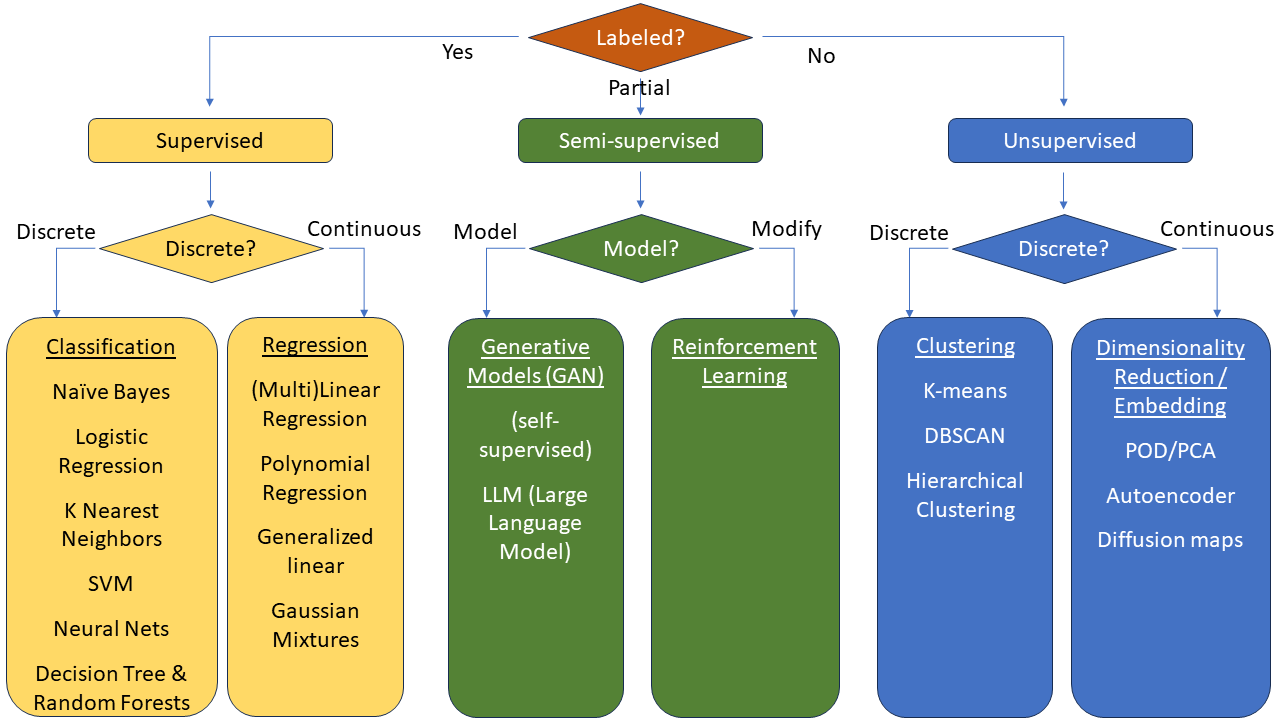
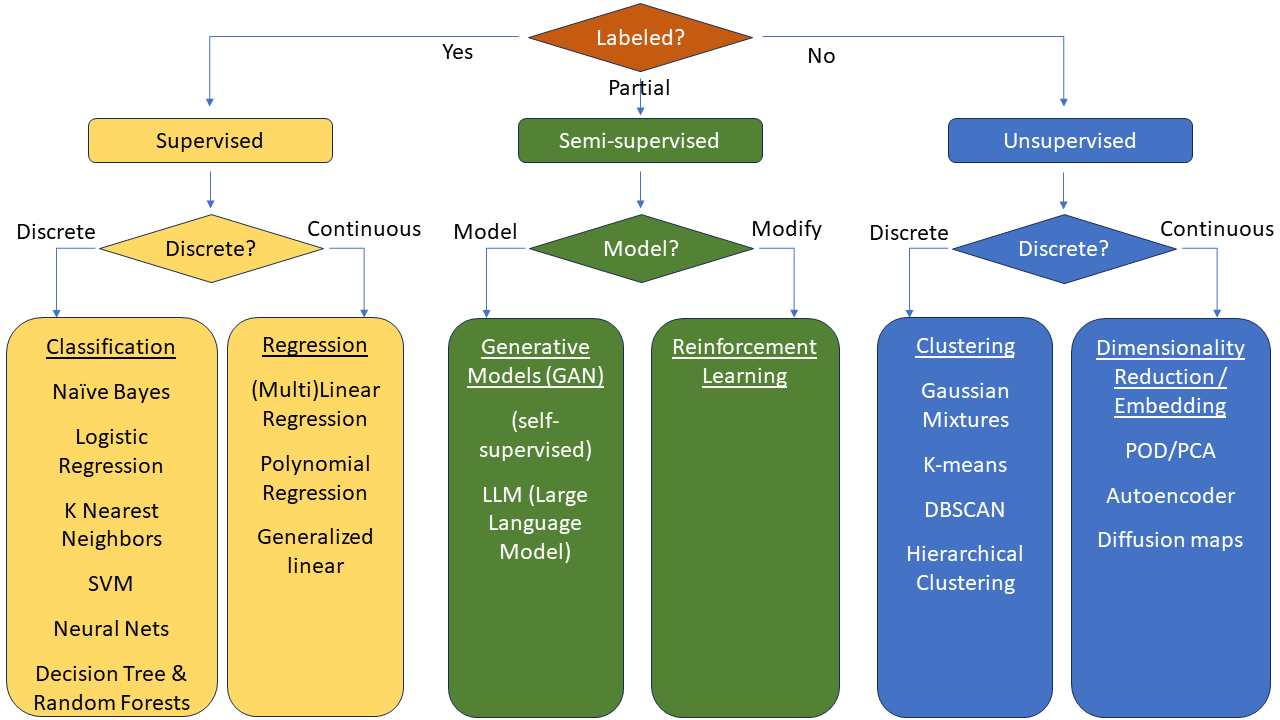
Update to ML Landscape figure

Changed region(s): [[0.7188, 0.5194, 0.8125, 0.7333], [0.7188, 0.7639, 0.8125, 0.825], [0.2188, 0.825, 0.2812, 0.9167]]

diff --git a/.ipynb_checkpoints/3480_Schedule-checkpoint.md b/.ipynb_checkpoints/3480_Schedule-checkpoint.md
@@ -1,0 +1,85 @@
+# Math 3480 Course Schedule - Spring 2024
+These are the topics that we plan to cover this semester:
+* Exploratory Data Analysis
+* Types of Machine Learning
+* Data Validation
+* Models
+  * Linear Regression
+  * Polynomial Regression
+  * Lasso Regression
+  * Support Vector Machines (SVMs)
+  * Decision Trees and Random Forests
+  * K-Means
+  * DBSCAN
+  * Gaussian Mixture Models
+* Natural Language Processing
+  * Language Learning Models
+* Generative AI
+  * ChatGPT
+  * Ethics
+
+Following is my planned schedule for the course. It is incomplete at this point, but will be changed as the semester progresses. The textbooks and videos are found on the [Textbooks](https://github.com/drolsonmi/math3080/blob/main/3480_Textbooks.md) page.
+
+|  Day  | Date   | Lecture                                           | Reading                                    |
+| :---: | :----- | :--------------------------                       | :--------------------------------------    |
+|   1   | Jan 8  | Introduction to Data Science and Machine Learning |                                            |
+|       |        | __*----- Review -----*__                          |                                            |
+|   2   | Jan 10 | Review: Data Handling                             | Geron, Chapter 2<br>McKinney, Chapters 7-8 |
+|   3   | Jan 12 | Review: Cleaning Data & Data Wrangling            |                                            |
+|   4   | Jan 15 | *MLK Jr. Day - No School*                         |                                            |
+|       |        | __*----- Preprocessing -----*__                   |                                            |
+|   5   | Jan 17 | Review: Exploratory Data Analysis (EDA)           |                                            |
+|   6   | Jan 19 | Types of Machine Learning                         |                                            |
+|   7   | Jan 22 | Data Preprocessing                                |                                            |
+|   8   | Jan 24 | More Preprocessing and Feature Scaling            |                                            |
+|   9   | Jan 26 | Evaluation                                        |                                            |
+|       |        | __*----- Common Machine Learning Models -----*__  |                                            |
+|  10   | Jan 29 | Naive Bayes                                       |                                            |
+|  11   | Jan 31 | k-Nearest Neighbors                               |                                            |
+|  12   | Feb 2  | Support Vector Classifiers                        | Geron, Chapter 5                           |
+|       | Feb 5  | *Cancelled Class*                                 |                                            |
+|  13   | Feb 7  | Support Vector Machines                           | Geron, Chapter 5                           |
+|  14   | Feb 9  | Neural Networks                                   |                                            |
+|  15   | Feb 12 | Deep Neural Networks                              |                                            |
+|       | Feb 14 | *Sick - Cancelled Class*                          |                                            |
+|  16   | Feb 16 | Keras and TensorFlow                              |                                            |
+|       | Feb 19 | *President's Day - No School*                     |                                            |
+|  17   | Feb 21 | Decision Trees                                    |                                            |
+|  18   | Feb 23 | Random Forests                                    |                                            |
+|  19   | Feb 26 |                                                   |                                            |
+|  20   | Feb 28 |                                                   |                                            |
+|  21   | Mar 1  |                                                   |                                            |
+|       | Mar 4  | *Spring Break*                                    |                                            |
+|       | Mar 6  | *Spring Break*                                    |                                            |
+|       | Mar 8  | *Spring Break*                                    |                                            |
+|  22   | Mar 11 | __Project__: Supervised Classifiers               |                                            |
+|  23   | Mar 13 | Review                                            |                                            |
+|  24   | Mar 15 | Review                                            |                                            |
+|  25   | Mar 18 | Midterm                                           |                                            |
+|       | Mar 20 | *Nobody showed up to class*                       |                                            |
+|  26   | Mar 22 | Linear Regression                                 |                                            |
+|  27   | Mar 25 | Multi-linear and Polynomial Regression            |                                            |
+|  28   | Mar 27 | Logistic Regression                               |                                            |
+|  29   | Mar 29 | Gaussian Mixture Models                           |                                            |
+|  30   | Apr 1  |                                                   |                                            |
+|  31   | Apr 3  | DBSCAN                                            |                                            |
+|  32   | Apr 5  |                                                   |                                            |
+|       |        | __*----- Natural Language Processing -----*__     |                                            |
+|  33   | Apr 8  | Overview of NLP                                   |                                            |
+|  34   | Apr 10 | Regular Expressions                               |                                            |
+|  35   | Apr 12 |                                                   |                                            |
+|  36   | Apr 15 |                                                   |                                            |
+|  37   | Apr 17 |                                                   |                                            |
+|  38   | Apr 19 |                                                   |                                            |
+|  39   | Apr 22 |                                                   |                                            |
+|  40   | Apr 24 |                                                   |                                            |
+|  41   | Apr 26 |                                                   |                                            |
+|  42   | Apr 30 | Final Exam opens April 29, 5:00pm, due 24 hours after |                                        |
+
+
+## 22: Supervised Classifier Project
+* 
+
+## 23: Midterm Review
+* Discuss the project
+  * What models worked?
